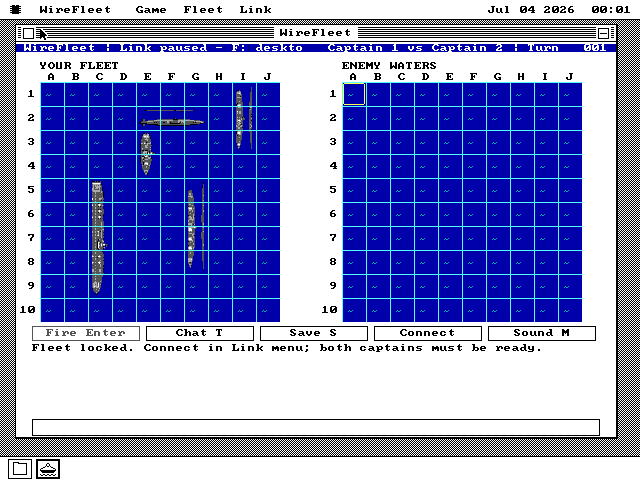
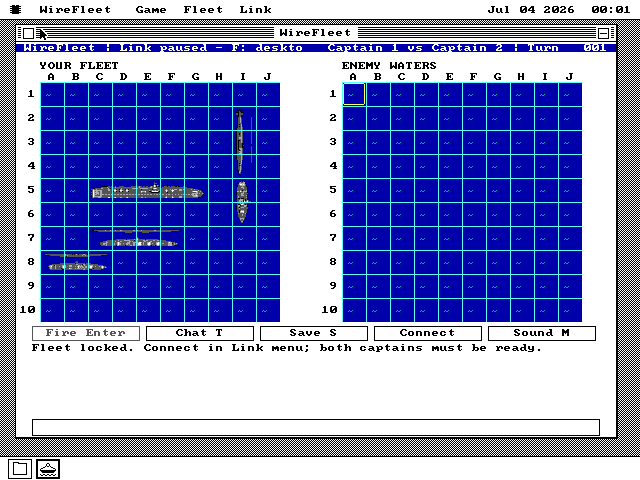
WireFleet: record merged-base acceptance and independent fleet screenshots
Refresh the diary with the final private-seed match, exact package sizes, adapter captures and the successful merged-base full gate. The implementation, nine affected regression rows and all fixed kernel budgets are complete.

Changed region(s): [[0.0625, 0.2188, 0.4062, 0.625], [0.3438, 0.1875, 0.4062, 0.3438]]

diff --git a/docs/HOW-WIREFLEET-WAS-BUILT.md b/docs/HOW-WIREFLEET-WAS-BUILT.md
@@ -151,7 +151,7 @@ and reconnecting completes that same shot once. It then replays shot,
 result and chat frames, injects malformed frames, types game shortcuts as
 chat text, and plays through all five enemy ships to victory. The final
 history hashes agree and shots after the ending are refused. This complete
-session passed; the final run took 91 seconds of host time, not an XT speed
+session passed; the final run took 94 seconds of host time, not an XT speed
 measurement.
 
 ![The winning captain after a complete serial match.](wirefleet/victory-vga.png)
@@ -196,15 +196,16 @@ and lets the current note expire within three ticks. Closing the instance
 releases its own grant immediately. This avoids a blanket tone-off after
 another application has won the sound router.
 
-The final package is about 22KB compressed. Its image and zeroed working
-storage occupy exactly 52KB, with a further 1KB module claim while connected.
+The final package is 21,962 bytes compressed. Its 46,227-byte image and
+7,021 bytes of zeroed working storage occupy exactly 52KB, with a further
+1KB module claim while connected.
 All four disk sizes build. The big,
 small and emulator kernels remain inside their fixed memory budgets.
 
 The clean build passed 52 host checks; the final host pass covered 54 with
 the additional built artifacts present. All nine selected soak rows passed
 after repairing failures and rerunning only those rows. All 60 full-suite
-checks passed too. One final PS/2 attempt hit a shared-image write lock when
+checks passed too. One earlier PS/2 attempt hit a shared-image write lock when
 two test runs overlapped; it passed when rerun alone. The big and emulator
 kernels each retain 3,072 bytes of budget, the small kernel 2,560. No budget
 was raised.
@@ -213,7 +214,11 @@ Comparing the two captains' screenshots exposed another practical issue:
 fresh PCs began with the same OS random seed and could auto-place identical
 fleets. Auto now seeds the existing OS generator from fresh private local
 timing. It does not use the discovery identity, which the opponent receives.
-The two-PC check requires different complete fleets before connecting them.
+The two-PC check requires different complete fleets before play. All three
+affected game rows passed after the seed change. The branch also absorbed
+the intervening main changes: its sole conflict was the generated memory
+ledger, which was regenerated from the combined source. Adapter/system
+acceptance and all 60 full-suite rows passed against that merged base.
 
 These are emulator results. A physical null modem, cable quality, real
 8250 interrupt margin and the sound of actual cards still need a field run.

diff --git a/docs/plans/WIREFLEET-PLAN.md b/docs/plans/WIREFLEET-PLAN.md
@@ -60,8 +60,9 @@ checks competing instances, a real 8250 with both serial IRQs masked,
 CRC-valid invalid saves and actual speaker/FM note grants.
 
 The clean build passed 52 host checks. All 60 full-suite rows passed; the
-final PS/2 row needed a separate retry after overlapping QEMU sessions held
-the same image's write lock. The fixed big/small/emulator memory budgets
+earlier PS/2 run needed a separate retry after overlapping QEMU sessions held
+the same image's write lock; the merged-base full run passed all 60 together.
+The fixed big/small/emulator memory budgets
 pass, with 3,072 / 2,560 / 3,072 bytes spare. The diary contains screenshots
 and the remaining physical-hardware limits.
 
